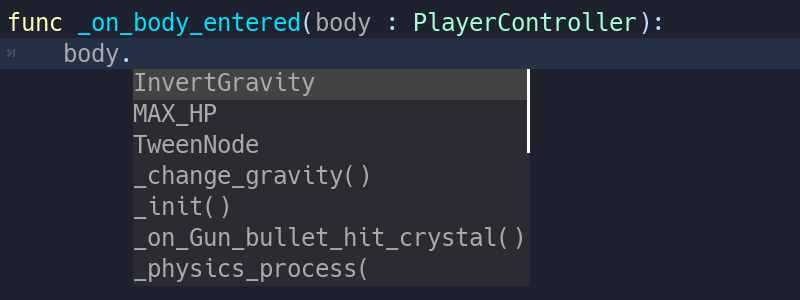
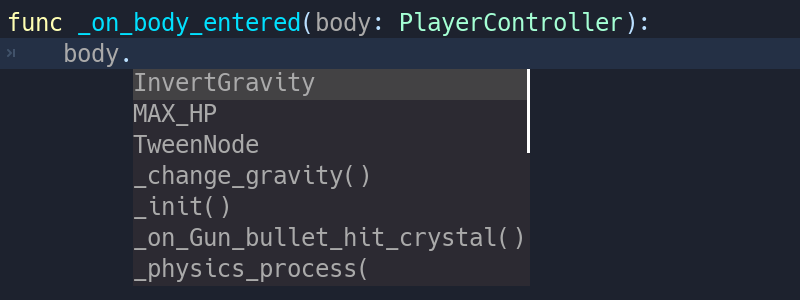
Make new typed guide have the default syntax

Changed region(s): [[0.4688, 0.03, 0.8125, 0.12]]

diff --git a/getting_started/scripting/gdscript/static_typing.rst b/getting_started/scripting/gdscript/static_typing.rst
@@ -33,13 +33,13 @@ who work with your code should always pass an ``Item`` to the
 
 ::
 
-    # in Item.gd
+    # In Item.gd
     class_name Item
 
-    # in Inventory.gd
+    # In Inventory.gd
     class_name Inventory
 
-    func add(reference : Item, amount : int = 1):
+    func add(reference: Item, amount: int = 1):
         var item = find_item(reference)
         if not item:
             item = _instance_item_from_db(reference)
@@ -84,22 +84,22 @@ How to use static typing in Godot 3.1
 -------------------------------------
 
 To define the type of a variable or a constant, write a colon after the
-variable’s name, followed by its type. E.g. ``var health : int``. This
+variable’s name, followed by its type. E.g. ``var health: int``. This
 forces the type of variable to always stay the same:
 
 ::
 
-    var damage : float = 10.5
-    const MOVE_SPEED : float = 50.0
+    var damage: float = 10.5
+    const MOVE_SPEED: float = 50.0
 
 Godot will try to infer types if you write a colon, but you omit the
 type:
 
 ::
 
-    var life_points : = 4
-    var damage : = 10.5
-    var motion : = Vector2()
+    var life_points := 4
+    var damage := 10.5
+    var motion := Vector2()
 
 Currently you can use three types of… types:
 
@@ -125,7 +125,7 @@ script you want to use as a type in a constant:
 ::
 
     const Rifle = preload('res://player/weapons/Rifle.gd')
-    var my_rifle : Rifle
+    var my_rifle: Rifle
 
 The second method is to use the ``class_name`` keyword when you create.
 For the example above, your Rifle.gd would look like this:
@@ -141,7 +141,7 @@ into a constant:
 
 ::
 
-    var my_rifle : Rifle
+    var my_rifle: Rifle
 
 Variable casting
 ~~~~~~~~~~~~~~~~
@@ -163,11 +163,11 @@ to use this type. This forces the variable to stick to the
 
 ::
 
-    func _on_body_entered(body : PhysicsBody2D) -> void:
-    var player := body as PlayerController
-    if not player:
-        return
-    player.damage()
+    func _on_body_entered(body: PhysicsBody2D) -> void:
+        var player := body as PlayerController
+        if not player:
+            return
+        player.damage()
 
 As we’re dealing with a custom type, if the ``body`` doesn’t extend
 ``PlayerController``, the ``player``\ variable will be set to ``null``.
@@ -217,7 +217,7 @@ bracket ``->`` after it’s declaration, followed by the return type:
 
 ::
 
-    func _process(delta : float) -> void:
+    func _process(delta: float) -> void:
         pass
 
 The type ``void`` means the function does not return anything. You can
@@ -225,7 +225,7 @@ use any type as with variables:
 
 ::
 
-    func hit(damage : float) -> bool:
+    func hit(damage: float) -> bool:
         health_points -= damage
         return health_points <= 0
 
@@ -235,9 +235,9 @@ You can also use your own nodes as return types:
 
     # Inventory.gd
 
-    # Adds an item to the inventory and returns it
-    func add(reference : Item, amount : int) -> Item:
-        var item : Item = find_item(reference)
+    # Adds an item to the inventory and returns it.
+    func add(reference: Item, amount: int) -> Item:
+        var item: Item = find_item(reference)
         if not item:
             item = ItemDatabase.get_instance(reference)
         item.amount += amount
@@ -271,7 +271,7 @@ And with static typing:
     extends Node
         func _ready() -> void:
             pass
-        func _process(delta : float) -> void:
+        func _process(delta: float) -> void:
             pass
 
 As you can see, you can also use types with the engine’s virtual
@@ -287,7 +287,7 @@ And the same callback, with type hints:
 
 ::
 
-    func _on_area_entered(area : CollisionObject2D) -> void:
+    func _on_area_entered(area: CollisionObject2D) -> void:
         pass
 
 You’re free to replace, e.g. the ``PhysicsBody2D``, with your own type,
@@ -295,7 +295,7 @@ to cast parameters automatically:
 
 ::
 
-    func _on_area_entered(bullet : Bullet) -> void:
+    func _on_area_entered(bullet: Bullet) -> void:
         if not bullet:
             return
         take_damage(bullet.damage)
@@ -360,15 +360,15 @@ You can’t use Enums as types:
 
 ::
 
-    enum MoveDirection { UP, DOWN, LEFT, RIGHT }
-    var current_direction : MoveDirection
+    enum MoveDirection {UP, DOWN, LEFT, RIGHT}
+    var current_direction: MoveDirection
 
 You can’t specify the type of individual members in an array. This will
 give you an error:
 
 ::
 
-    var enemies : Array = [$Goblin : Enemy, $Zombie : Enemy]
+    var enemies: Array = [$Goblin: Enemy, $Zombie: Enemy]
 
 You can’t force the assignment of types in a ``for`` loop as each
 element the ``for`` keyword loops already has a different type. So you
@@ -377,7 +377,7 @@ element the ``for`` keyword loops already has a different type. So you
 ::
 
     var names = ['John', 'Marta', 'Samantha', 'Jimmy']
-    for name : String in names:
+    for name: String in names:
         pass
 
 Two scripts can’t depend on each other in a cyclic fashion:
@@ -388,7 +388,7 @@ Two scripts can’t depend on each other in a cyclic fashion:
     extends Area2D
     class_name Player
 
-    var rifle : Rifle
+    var rifle: Rifle
 
 ::
 
@@ -396,7 +396,7 @@ Two scripts can’t depend on each other in a cyclic fashion:
     extends Area2D
     class_name Rifle
 
-    var player : Player
+    var player: Player
 
 Summary
 -------
